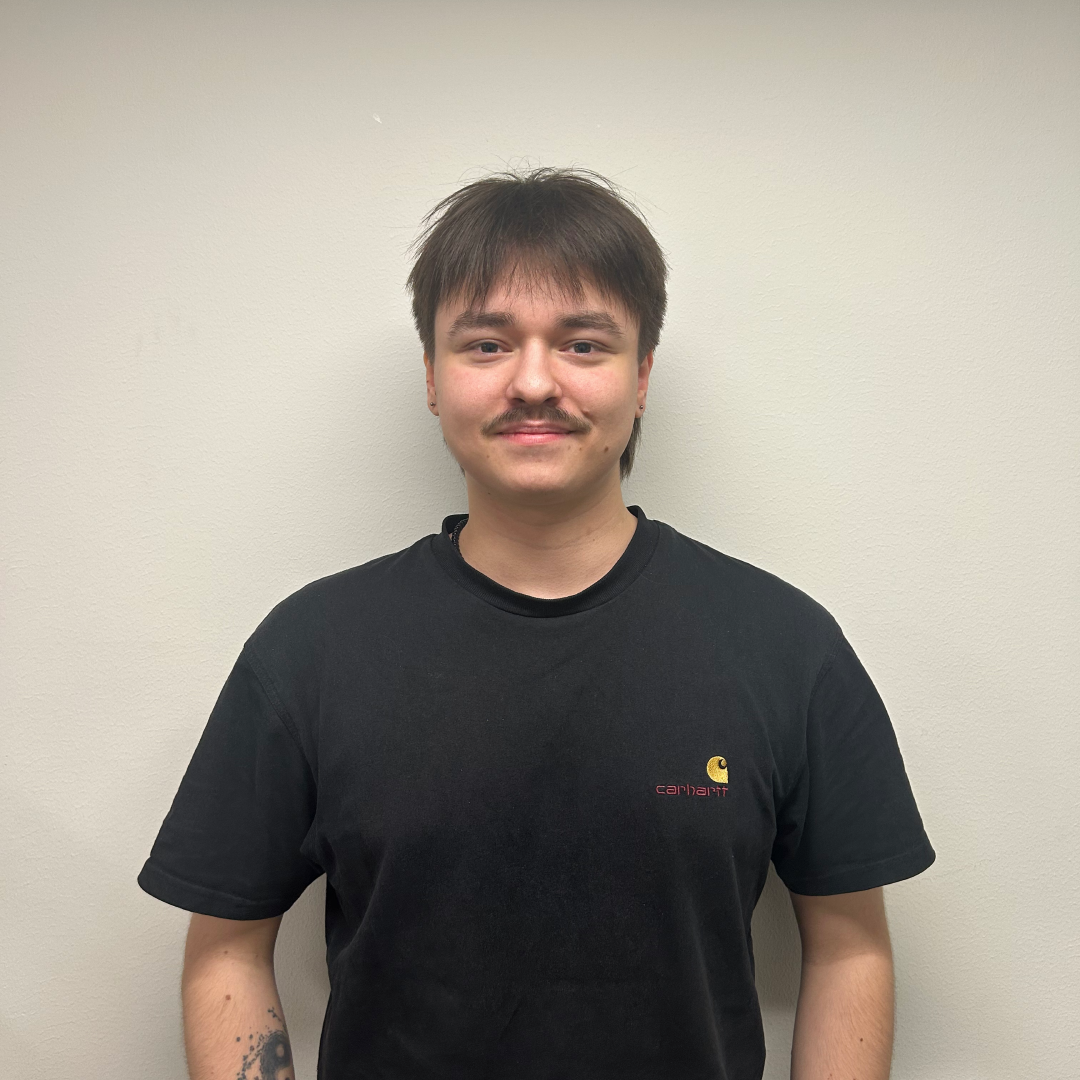
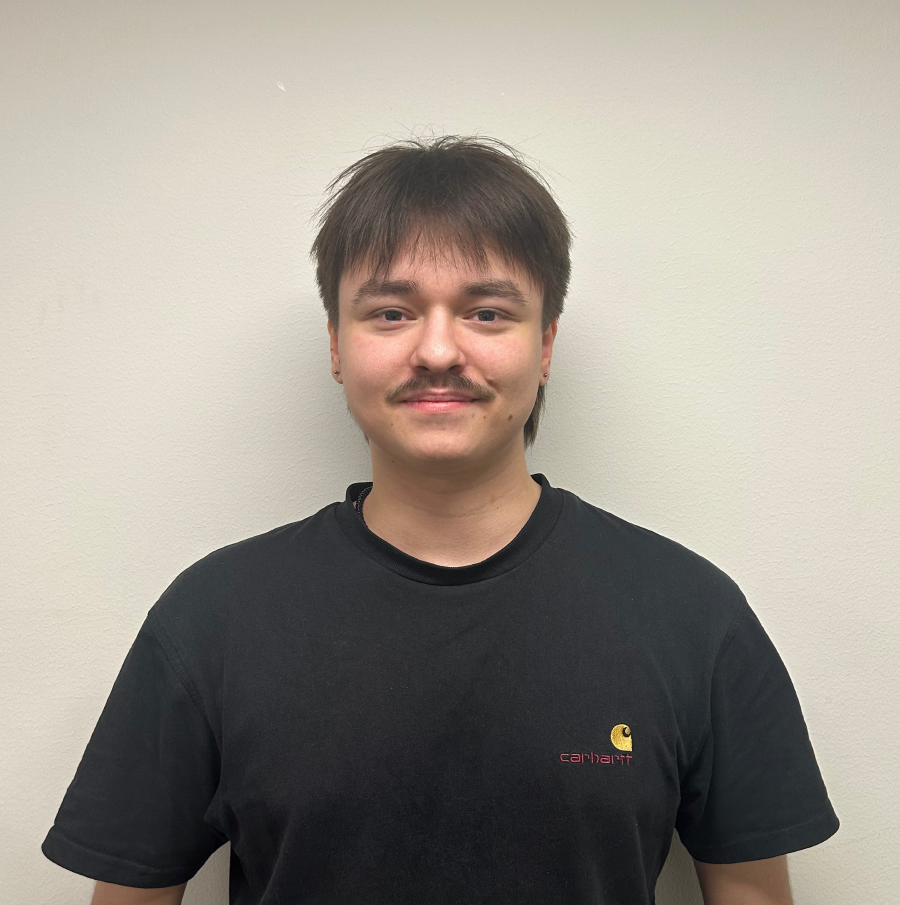
more animations

diff --git a/src/components/Navbar.tsx b/src/components/Navbar.tsx
@@ -32,18 +32,24 @@ export default function Navbar() {
             <span className="prompt-symbol">$</span>
             <span className="cursor">_</span> 
         </Link>
-      </div>
+    </div>
 
-      <div style={{ display: "flex", gap: "20px" }}>
+    <div style={{ display: "flex", gap: "10px", alignItems: 'center' }}>
         <Link href="/works" className="nav-btn">
-          <FaFolder style={{ fontSize: '0.8rem' }}/> Works
+            <FaFolder style={{ fontSize: '0.9rem' }}/> Works
         </Link>
 
         <button
-          className="nav-btn"
+          className="theme-toggle-btn"
           onClick={() => setTheme(theme === "dark" ? "light" : "dark")}
+          aria-label="Toggle Dark Mode"
         >
-          {mounted && theme === "light" ? <FaMoon /> : <FaSun />}
+          <FaSun 
+            className={`theme-icon ${mounted && theme === 'dark' ? 'icon-visible' : 'icon-hidden'}`} 
+          />
+          <FaMoon 
+            className={`theme-icon ${mounted && theme === 'light' ? 'icon-visible' : 'icon-hidden'}`} 
+          />
         </button>
       </div>
     </nav>

diff --git a/src/app/globals.css b/src/app/globals.css
@@ -234,3 +234,37 @@ p {
   color: var(--path-color);
   font-weight: bold;
 }
+
+.theme-toggle-btn {
+  position: relative;
+  width: 40px;
+  height: 40px;
+  display: flex;
+  align-items: center;
+  justify-content: center;
+  border: none;
+  background: none;
+  cursor: pointer;
+  color: var(--text-color);
+}
+
+.theme-toggle-btn:hover {
+  color: var(--accent-color);
+}
+
+/* Common style for both icons */
+.theme-icon {
+  position: absolute;
+  font-size: 1.2rem;
+  transition: all 0.5s cubic-bezier(0.23, 1, 0.32, 1);
+}
+
+.icon-visible {
+  opacity: 1;
+  transform: scale(1) rotate(0deg);
+}
+
+.icon-hidden {
+  opacity: 0;
+  transform: scale(0) rotate(90deg);
+}
